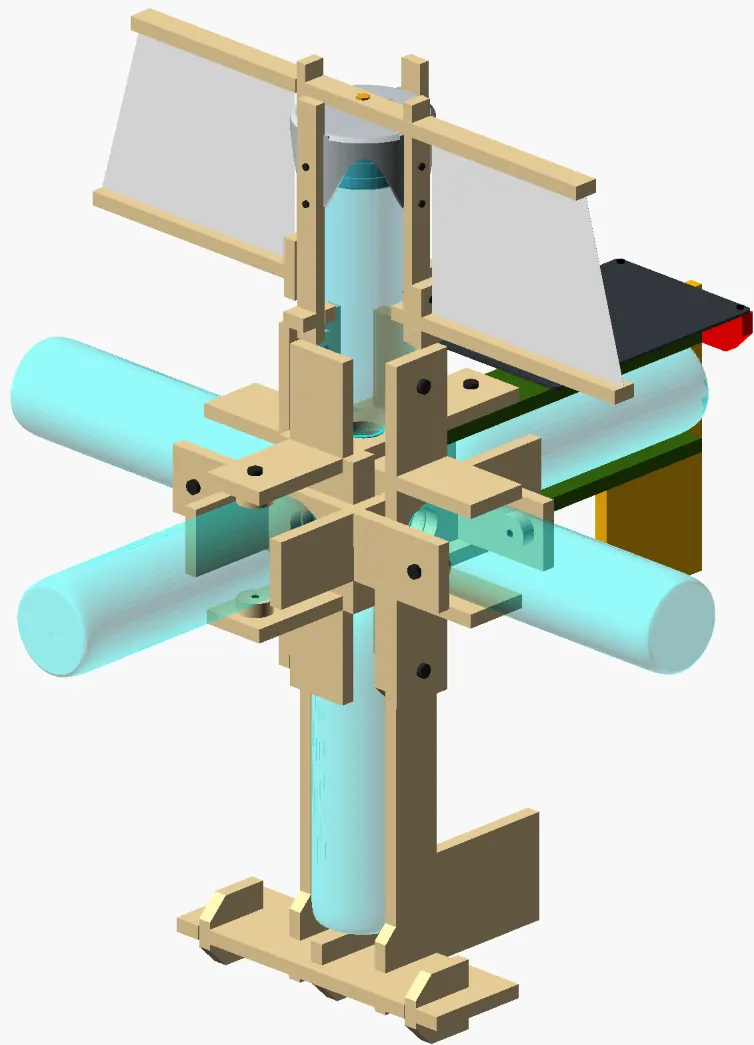
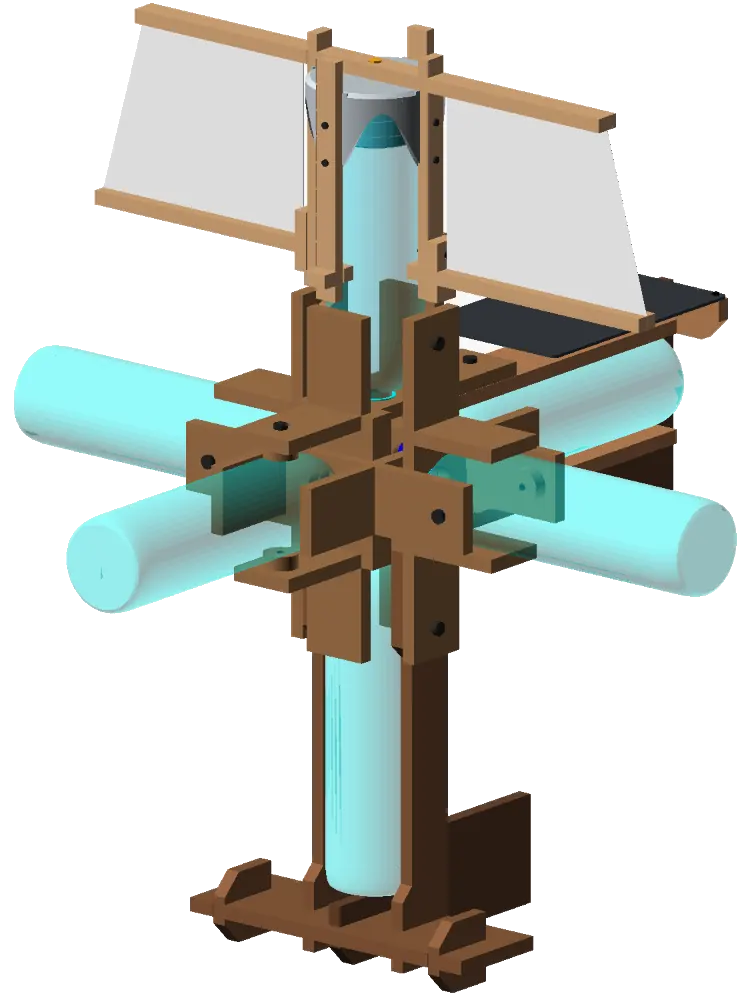
Adding turtles page and sail generator

diff --git a/public/css/main.css b/public/css/main.css
@@ -5945,6 +5945,12 @@ body.ocean-bg {
   display: none;
 }
 
+/* Panel 6 (fabrication) — nudge the "Fabrication selected." status clear of
+   the toggle list above it. */
+[data-panel="fabrication"] .eco-feedback {
+  margin-top: 20px;
+}
+
 .eco-feedback i {
   margin-right: 0.15rem;
 }

diff --git a/generator/objects/back_fin.py b/generator/objects/back_fin.py
@@ -495,20 +495,26 @@ def _solar_edges_with_gaps(inputs: BackFinInputs, d: BackFinDerived):
 def _shaft_annotations(inputs: BackFinInputs, d: BackFinDerived):
     hole_x = d.shaft_hole_from_front
     hole_y = inputs.shaft_width / 2
+    n_u0 = d.shaft_notch_u0
+    n_w = d.shaft_notch_width
+    n_h = d.shaft_notch_height
+    n_v0 = d.shaft_notch_v0
     dims = [
+        # M6 hole position, measured from the shaft's front edge.
         (
             (0, inputs.shaft_width + 14), (hole_x, inputs.shaft_width + 14),
             f"{_ceil_mm(hole_x)}mm",
             {"ext1": (0, inputs.shaft_width), "ext2": (hole_x, inputs.shaft_width), "rotate_label": True},
         ),
+        # How far the rear half-lap notch reaches in from the back edge.
         (
-            (d.shaft_notch_u0, -6), (d.shaft_length, -6),
-            f"{_ceil_mm(d.shaft_notch_width)}mm", {"ext1": (d.shaft_notch_u0, 0), "ext2": (d.shaft_length, 0)},
+            (n_u0, -6), (d.shaft_length, -6),
+            f"{_ceil_mm(n_w)}mm deep", {"ext1": (n_u0, 0), "ext2": (d.shaft_length, 0)},
         ),
     ]
     labels = [
         ((hole_x, hole_y), f"⌀{_ceil_mm(inputs.shaft_hole_diameter)}"),
-        ((d.shaft_notch_u0 + d.shaft_notch_width / 2, d.shaft_notch_v0 + d.shaft_notch_height / 2), f"{_ceil_mm(d.shaft_notch_height)}mm"),
+        ((n_u0 + n_w / 2, n_v0 + n_h / 2), f"{_ceil_mm(n_h)}mm wide"),
     ]
     return dims, labels
 
@@ -516,32 +522,81 @@ def _shaft_annotations(inputs: BackFinInputs, d: BackFinDerived):
 def _fin_annotations(inputs: BackFinInputs, d: BackFinDerived):
     upper, lower, solar = _fin_notches(inputs, d)
     dims = []
+    labels = []
+
+    # --- The two shaft slots, cut in from the fin's front (left) edge ---
+    # Existing callout: how deep each slot reaches into the fin.
     for nx, ny, nw, nh in (upper, lower):
         dims.append((
             (nx, ny - 6), (nx + nw, ny - 6),
-            f"{_ceil_mm(nw)}mm", {"ext1": (nx, ny), "ext2": (nx + nw, ny)},
+            f"{_ceil_mm(nw)}mm deep", {"ext1": (nx, ny), "ext2": (nx + nw, ny)},
         ))
-    nx, ny, nw, nh = solar
+        # The slot's opening (the "slot space") written on the slot itself.
+        labels.append(((nx + nw / 2, ny + nh / 2), f"{_ceil_mm(nh)}mm wide"))
+
+    # Where those slots sit down the front edge: both centrelines measured
+    # from the fin's top edge (a clean reference edge, unlike the
+    # diagonal-cut bottom corner). Two parallel dimensions off the same
+    # datum rather than a chain, so no arrowheads collide. Drawn just
+    # inboard of the slot ends so the witness lines clear the overall-height
+    # dimension on the far left of the part.
+    slot_end = max(upper[0] + upper[2], lower[0] + lower[2])
+    lower_cy = lower[1] + lower[3] / 2
+    upper_cy = upper[1] + upper[3] / 2
     dims.append((
-        (nx + nw + 6, ny), (nx + nw + 6, ny + nh),
-        f"{_ceil_mm(nh)}mm",
-        {"ext1": (nx + nw, ny), "ext2": (nx + nw, ny + nh), "rotate_label": True},
+        (slot_end + 14, upper_cy), (slot_end + 14, d.fin_height),
+        f"{_ceil_mm(d.fin_height - upper_cy)}mm",
+        {"ext1": (slot_end, upper_cy), "ext2": (slot_end, d.fin_height), "rotate_label": True},
     ))
-    return dims, []
+    dims.append((
+        (slot_end + 30, lower_cy), (slot_end + 30, d.fin_height),
+        f"{_ceil_mm(d.fin_height - lower_cy)}mm",
+        {"ext1": (slot_end, lower_cy), "ext2": (slot_end, d.fin_height), "rotate_label": True},
+    ))
+
+    # --- Solar-panel-holder slot, cut in from the fin's top edge ---
+    nx, ny, nw, nh = solar
+    # How far down into the fin it reaches - dimensioned on the slot's left,
+    # into solid material, to keep clear of the crowded rear corner.
+    dims.append((
+        (nx - 5, ny), (nx - 5, ny + nh),
+        f"{_ceil_mm(nh)}mm deep",
+        {"ext1": (nx, ny), "ext2": (nx, ny + nh), "rotate_label": True},
+    ))
+    # Where it sits along the top edge: distance in from the fin's rear
+    # (right) edge.
+    dims.append((
+        (nx, ny - 10), (d.fin_width, ny - 10),
+        f"{_ceil_mm(d.fin_width - nx)}mm from rear",
+        {"ext1": (nx, ny), "ext2": (d.fin_width, ny)},
+    ))
+    # The slot's own width, on the slot itself.
+    labels.append(((nx + nw / 2, ny + nh / 2), f"{_ceil_mm(nw)}mm"))
+
+    return dims, labels
 
 
 def _solar_annotations(inputs: BackFinInputs, d: BackFinDerived):
     nx = (d.solar_holder_length - d.solar_slot_width) / 2
+    nw = d.solar_slot_width
     nh = d.solar_slot_depth + inputs.solar_slot_clearance / 2
     dims = [
+        # How deep the panel slot is cut up from the bottom edge.
         (
-            (nx + d.solar_slot_width + 4, 0), (nx + d.solar_slot_width + 4, nh),
-            f"{_ceil_mm(nh)}mm",
-            {"ext1": (nx + d.solar_slot_width, 0), "ext2": (nx + d.solar_slot_width, nh), "rotate_label": True},
+            (nx + nw + 4, 0), (nx + nw + 4, nh),
+            f"{_ceil_mm(nh)}mm deep",
+            {"ext1": (nx + nw, 0), "ext2": (nx + nw, nh), "rotate_label": True},
+        ),
+        # Where the (centred) slot starts, measured in from the holder's end.
+        (
+            (0, -7), (nx, -7),
+            f"{_ceil_mm(nx)}mm", {"ext1": (0, 0), "ext2": (nx, 0)},
         ),
     ]
     labels = [
         ((d.solar_chamfer * 0.32, d.solar_chamfer * 0.32), f"{_ceil_mm(d.solar_chamfer)}mm"),
+        # The slot's width (the "slot space"), written on the slot itself.
+        ((nx + nw / 2, min(nh, 14) / 2), f"{_ceil_mm(nw)}mm wide"),
     ]
     return dims, labels
 
@@ -775,6 +830,10 @@ def write_pdf(path: Path, inputs: BackFinInputs, d: BackFinDerived, *, font_dir:
     input_box_y = derived_box_y + box_h + box_gap
     _rounded_rect_text(c, box_x, input_box_y, box_w, box_h, "Input variables", input_lines, title_font, body_font)
     _rounded_rect_text(c, box_x, derived_box_y, box_w, box_h, "Derived dimensions", derived_lines, title_font, body_font)
+
+    c.setFont(body_font, 6)
+    c.setFillColor(colors.HexColor("#555555"))
+    c.drawString(margin, 16, f"CERN-OHL-S-2.0. Design version {DESIGN_VERSION}. https://hopeturtles.org/turtles/generate")
 
     c.showPage()
     c.save()

diff --git a/generator/objects/ecojoiner_6fc.py b/generator/objects/ecojoiner_6fc.py
@@ -1303,19 +1303,23 @@ def write_pdf(path: Path, inputs: EcojoinerInputs, d: EcojoinerDerived, *, font_
         ext1=(side_x + side_w, side_y), ext2=(side_x + side_w, side_y + side_h),
     )
 
-    # Credit box, sized to hug its two lines of text rather than leaving a
+    # Credit box, sized to hug its three lines of text rather than leaving a
     # tall band of empty space below them (the box used to be 44pt tall for
-    # ~20pt of actual text).
-    credit_h = 32
-    credit_line2_y = 15
-    credit_line1_y = credit_line2_y + 11
+    # ~20pt of actual text). Keeps the same top edge (y=40) as the old
+    # two-line box — the third line (the generator URL) is squeezed in at a
+    # slightly smaller leading.
+    credit_h = 34
+    credit_line3_y = 8
+    credit_line2_y = credit_line3_y + 10
+    credit_line1_y = credit_line2_y + 10
     c.setStrokeColor(colors.HexColor("#aaaaaa"))
     c.setFillColor(colors.HexColor("#f8f8f8"))
-    c.roundRect(margin, 8, page_w - 2 * margin, credit_h, 5, fill=1, stroke=1)
+    c.roundRect(margin, 6, page_w - 2 * margin, credit_h, 5, fill=1, stroke=1)
     c.setFillColor(colors.HexColor("#222222"))
-    c.setFont(body_font, 6.5)
+    c.setFont(body_font, 6)
     c.drawString(margin + 8, credit_line1_y, T(lang, "license_statement"))
     c.drawString(margin + 8, credit_line2_y, T(lang, "version_credit", version=DESIGN_VERSION))
+    c.drawString(margin + 8, credit_line3_y, "https://hopeturtles.org/turtles/generate")
 
     c.showPage()
     c.save()

diff --git a/generator/objects/sail_cutout.py b/generator/objects/sail_cutout.py
@@ -420,7 +420,7 @@ def write_pdf(path: Path, inputs: SailCutoutInputs, d: SailCutoutDerived, *, fon
             c.setFillColor(colors.HexColor("#777777"))
             c.drawString(
                 mmx(_A3_MARGIN_MM), mmx(_A3_MARGIN_MM) - 10,
-                f"CERN-OHL-S-2.0. Design version {DESIGN_VERSION}. hopeturtles.org/turtles/generate "
+                f"CERN-OHL-S-2.0. Design version {DESIGN_VERSION}. https://hopeturtles.org/turtles/generate "
                 f"- Sail {_ceil_mm(d.width_mm)} x {_ceil_mm(d.height_mm)}mm incl. {_ceil_mm(d.tab_height)}mm tabs. Cut x2.",
             )
 

diff --git a/generator/objects/ballast.py b/generator/objects/ballast.py
@@ -960,6 +960,10 @@ def write_pdf(path: Path, inputs: BallastInputs, d: BallastDerived, *, font_dir:
     _rounded_rect_text(c, box_x, input_box_y, box_w, box_h, "Input variables", input_lines, title_font, body_font)
     _rounded_rect_text(c, box_x, derived_box_y, box_w, box_h, "Derived dimensions", derived_lines, title_font, body_font)
 
+    c.setFont(body_font, 6)
+    c.setFillColor(colors.HexColor("#555555"))
+    c.drawString(margin, 16, f"CERN-OHL-S-2.0. Design version {DESIGN_VERSION}. https://hopeturtles.org/turtles/generate")
+
     c.showPage()
     c.save()
 

diff --git a/generator/objects/sails.py b/generator/objects/sails.py
@@ -924,7 +924,7 @@ def write_pdf(path: Path, inputs: SailsInputs, d: SailsDerived, *, font_dir: Opt
 
     c.setFont(body_font, 6)
     c.setFillColor(colors.HexColor("#555555"))
-    c.drawString(draw_left, draw_bottom + 4, f"CERN-OHL-S-2.0. Design version {DESIGN_VERSION}. hopeturtles.org/ecojoiners/generate")
+    c.drawString(draw_left, draw_bottom + 4, f"CERN-OHL-S-2.0. Design version {DESIGN_VERSION}. https://hopeturtles.org/turtles/generate")
 
     c.showPage()
     c.save()

diff --git a/generator/SYNC_LOG.md b/generator/SYNC_LOG.md
@@ -9,6 +9,7 @@ Format: `- YYYY-MM-DD · turtle_body vX.Y.Z · <component> · <what changed upst
 
 ## Entries
 
+- 2026-09-09 · v1.9.0 · All wooden subsystems · Display-colour only, **no geometry**: when `enable_color_coding = false` each wooden subsystem now renders in its own shade of brown instead of one shared neutral (new `p_wood_shade_sail/rear_fin/eco/ballast/fin()` in `lib/params.scad`; the rear fin previously ignored the flag entirely and kept its yellow/green/red - fixed by routing `lib/rear_fin.scad` through `wood_color()` with a new `colored` arg). Rear fin and ballast fin share `p_wood_shade_fin()`. `build/params.json` gains 5 `p_wood_shade_*` keys but they are not shared-input defaults any generator carries, so `check_params_sync.py` is unaffected. Generators emit no colour -> no downstream change needed · status: synced (turtle_body v1.9.0)
 - 2026-09-09 · v1.8.3 · Sail Cutout (new) · New downstream-only export process, `object_type: "sail_cutout"` (`generator/objects/sail_cutout.py`), producing the 1:1 sail-membrane pattern itself (PDF tiled across A3 sheets when larger than one page, plus a 1:1 SVG) - the counterpart to the `sails` object type, which draws the wooden frame but has always deliberately left the fabric sail off every export. Not an upstream `lib/` change; it delegates its trapezoid geometry to `objects/sails.py::derive_dimensions()` (no duplicated formula) and applies the same `sail_tab_height = wood_thickness` fold-over tab landed in the v1.8.3 entry above. New Panel 4 button ("Sail Cutout") in `views/generate.ejs`, `mapSailCutoutFields` in `utils/ecojoinerGenerator.js`, `PART_QUANTITIES_BY_TYPE.sail_cutout` · status: synced (turtle_body v1.8.3 + `generator/objects/sail_cutout.py`, `generator/generate_exports.py`, `utils/ecojoinerGenerator.js`, `views/generate.ejs`, `public/js/ecojoiner-generate.js`, `locales/en.json`)
 - 2026-09-09 · v1.8.3 · Sails · Tab height changed from the 50 mm inspection placeholder to `sail_tab_height = board_width` (12 mm at reference params), so the fold-over tab folds flat onto the rail's stock thickness instead of protruding out its far face. `generate_sails.py`'s embedded SCAD_TEMPLATE mirrored identically (`sail_tab_height = board_width`, same module parameter name in both files) · status: synced (turtle_body v1.8.3 + `generator/generate_sails.py`)
 - 2026-09-09 · v1.8.2 · Sails · `lib/sail_frame.scad`'s sail polygon (`right_sail_native()`) gained straight fold-over tabs at the top and bottom rail edges (new local `sail_tab_height`, placeholder 50 mm, eventually = board thickness) so the membrane has material to staple to the rails; previously the polygon stopped exactly at the rail lines. `generate_sails.py`'s embedded SCAD_TEMPLATE carries a byte-level copy of that module and was updated to match (same `sail_tab_height` local + 6-point polygon). The sail itself is still not drawn on the SVG/DXF/PDF cut sheets (soft goods, out of scope for `objects/sails.py`'s `derive_dimensions()`/cut-sheet writers) so no Python-side dimension changed · status: synced (turtle_body v1.8.2 + `generator/generate_sails.py`)
